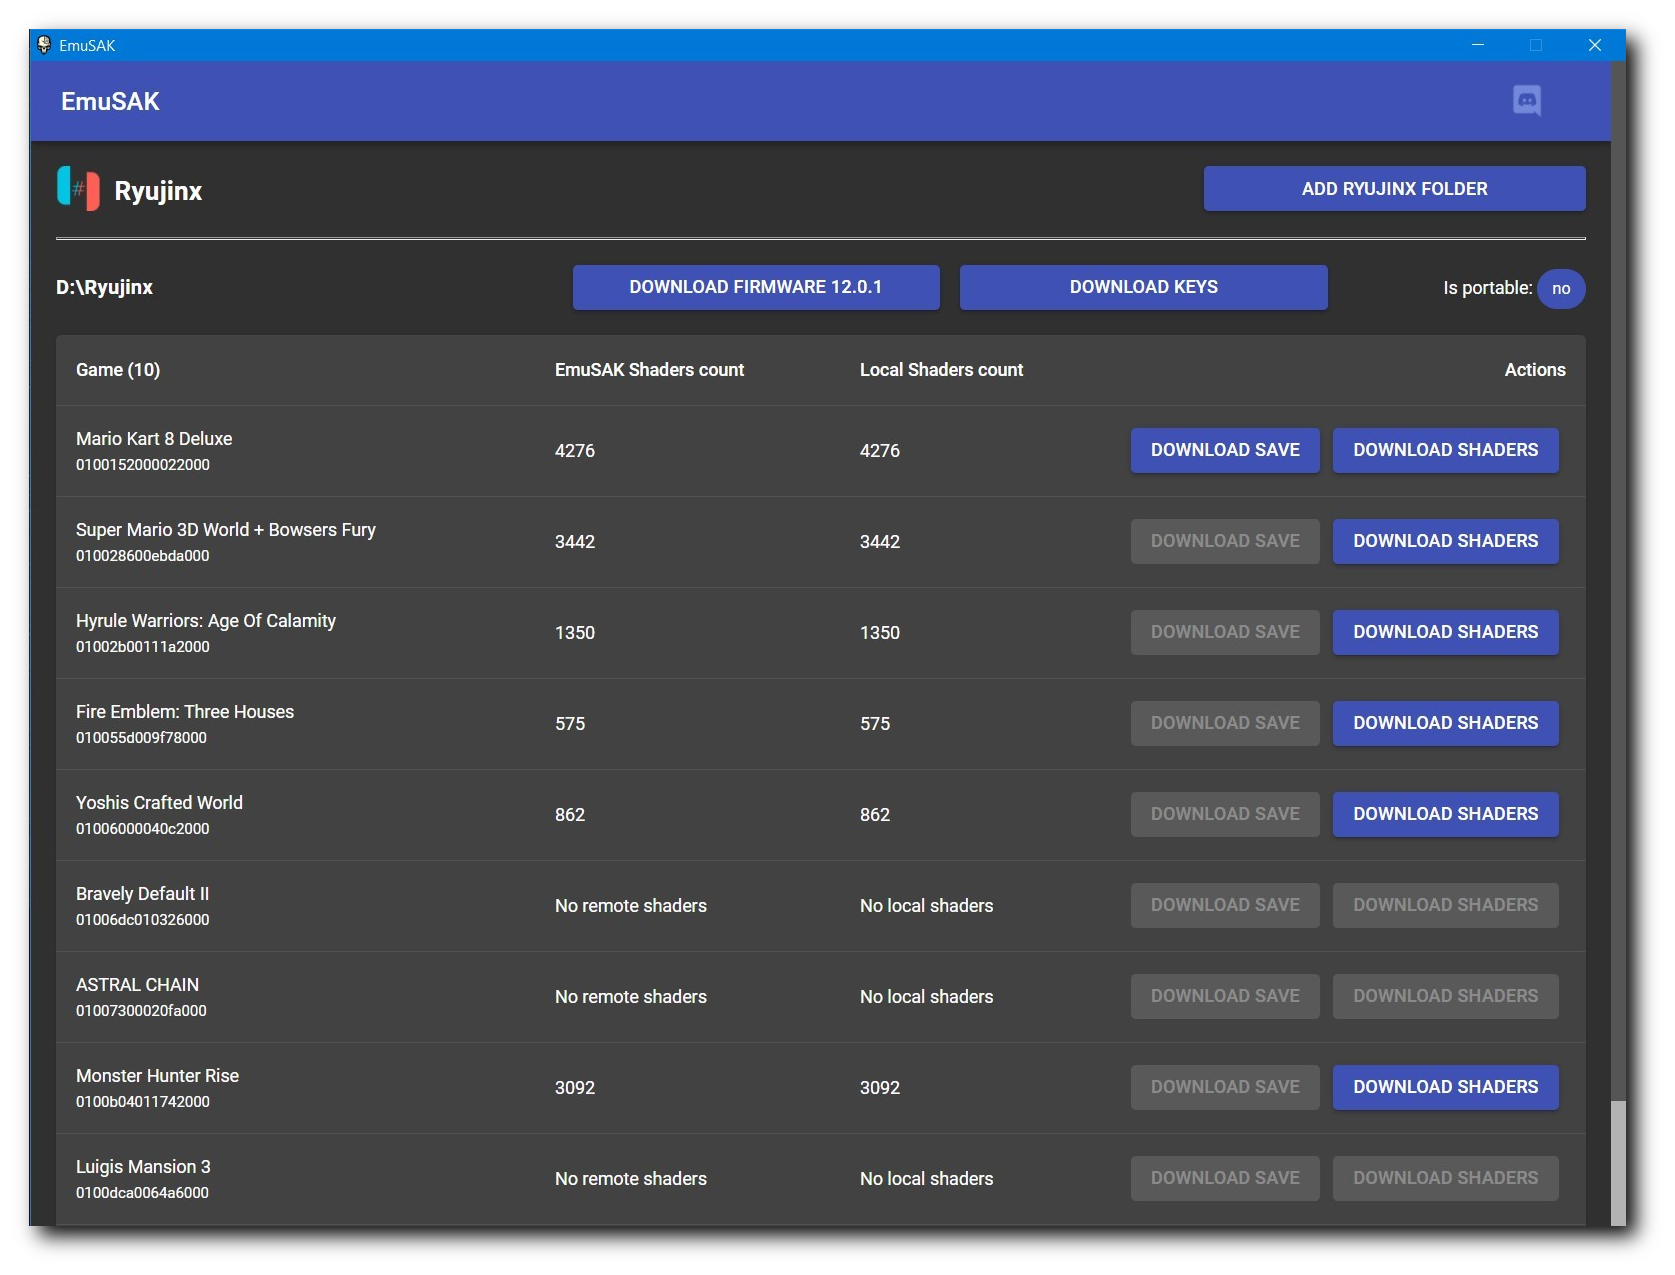
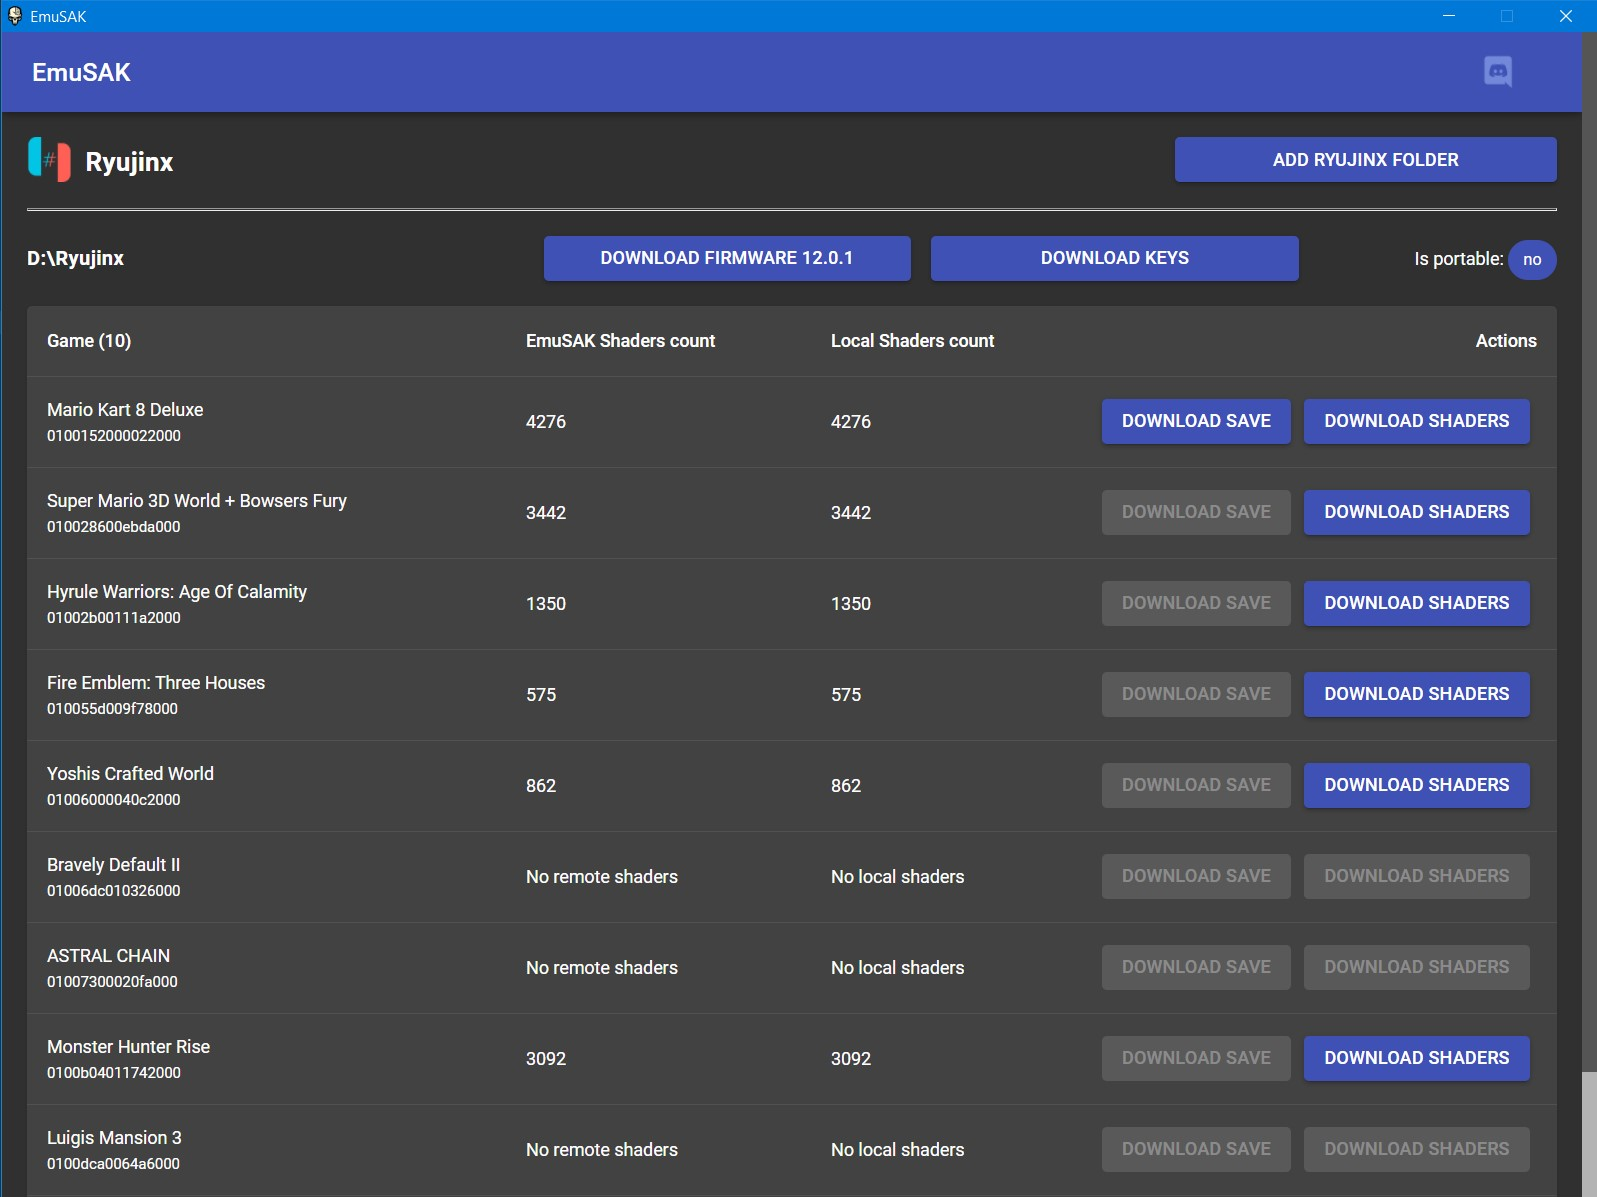
Update screenshot.jpg

diff --git a/Readme.md b/Readme.md
@@ -6,7 +6,7 @@ Emusak-ui is a graphical mod for [Emusak](https://github.com/sinscove/EmuSAK). T
 
 Just go to [releases](https://github.com/stromcon/emusak-ui/releases) page and download latest build
 
-![Screenshot](https://raw.githubusercontent.com/stromcon/emusak-ui/main/sceenshot.png?raw=true)
+![Screenshot](https://raw.githubusercontent.com/stromcon/emusak-ui/main/sceenshot.jpg?raw=true)
 
 Requirements :
 
